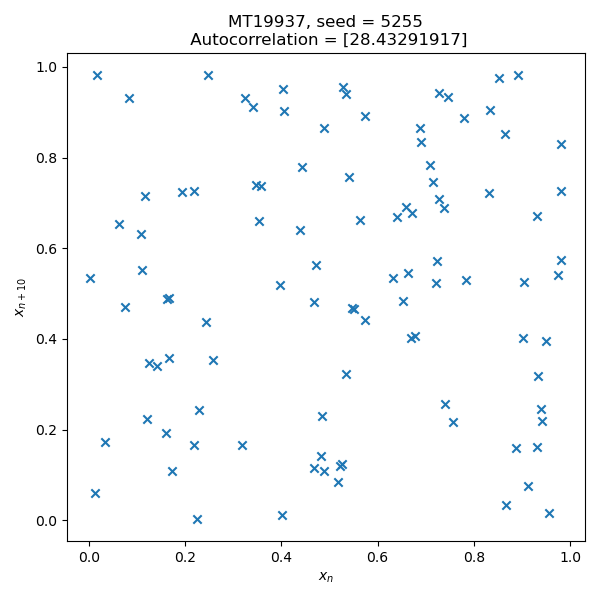
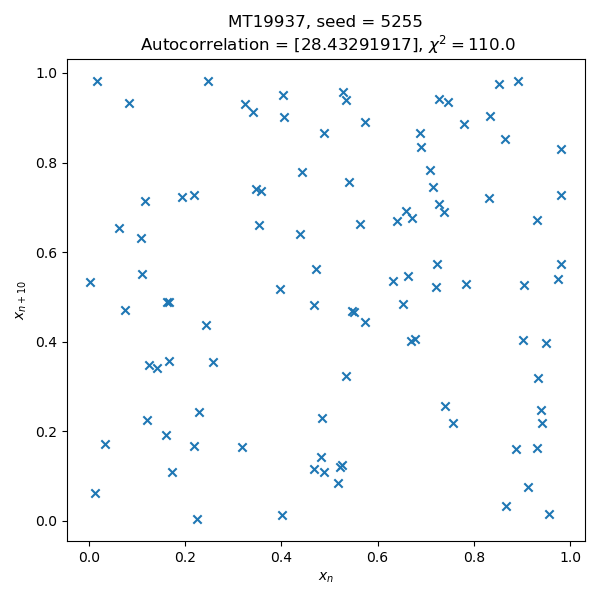
Added chisquared to graphs

diff --git a/Lab_1.py b/Lab_1.py
@@ -146,8 +146,7 @@ plt.figure(figsize=(6, 6))
 plt.scatter(y1, y15, marker='x')
 plt.xlabel('$x_n$')
 plt.ylabel('$x_{n+10}$')
-plt.title('MT19937, seed = 5255\n Autocorrelation = {}'.format(
-    np.correlate(y1, y15)))
+plt.title('MT19937, seed = 5255\n Autocorrelation = {}, $\u03C7^2 = {}$'.format(np.correlate(y1, y15), mt19937chi1))
 plt.tight_layout()
 plt.savefig(fname='IMAGES/MT19937-5255')
 plt.show()
@@ -157,8 +156,7 @@ plt.figure(figsize=(6, 6))
 plt.scatter(y2, y25, marker='x')
 plt.xlabel('$x_n$')
 plt.ylabel('$x_{n+10}$')
-plt.title('MT19937, seed = 7381\n Autocorrelation = {}'.format(
-    np.correlate(y2, y25)))
+plt.title('MT19937, seed = 7381\n Autocorrelation = {}, $\u03C7^2 = {}$'.format(np.correlate(y2, y25), mt19937chi2))
 plt.tight_layout()
 plt.savefig(fname='IMAGES/MT19937-7381')
 plt.show()
